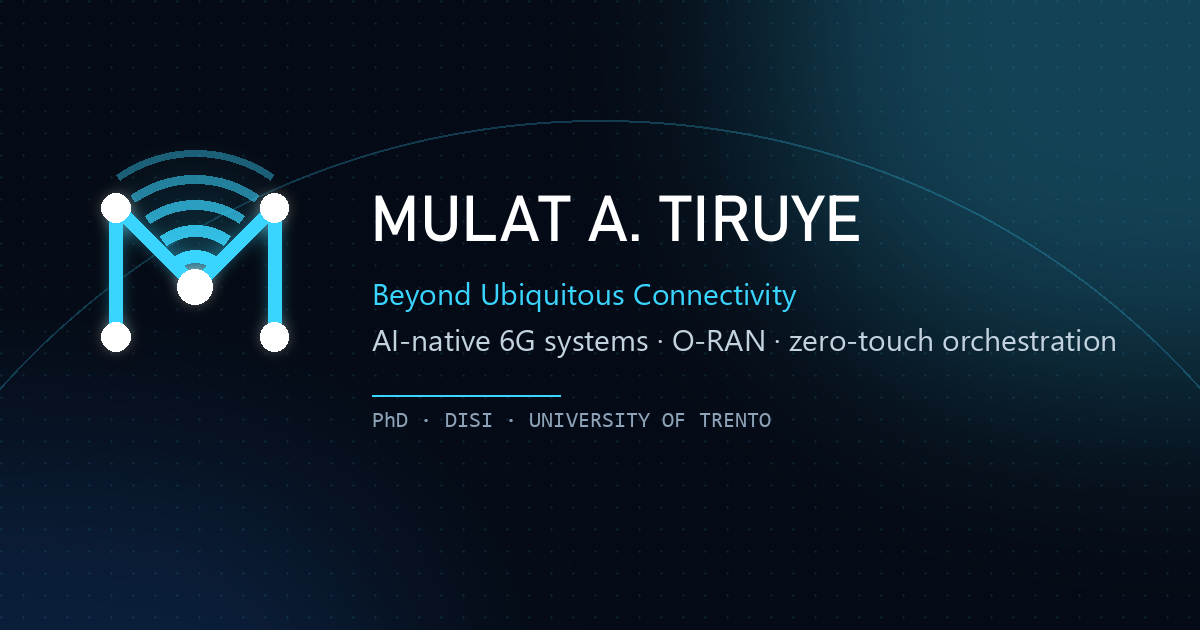
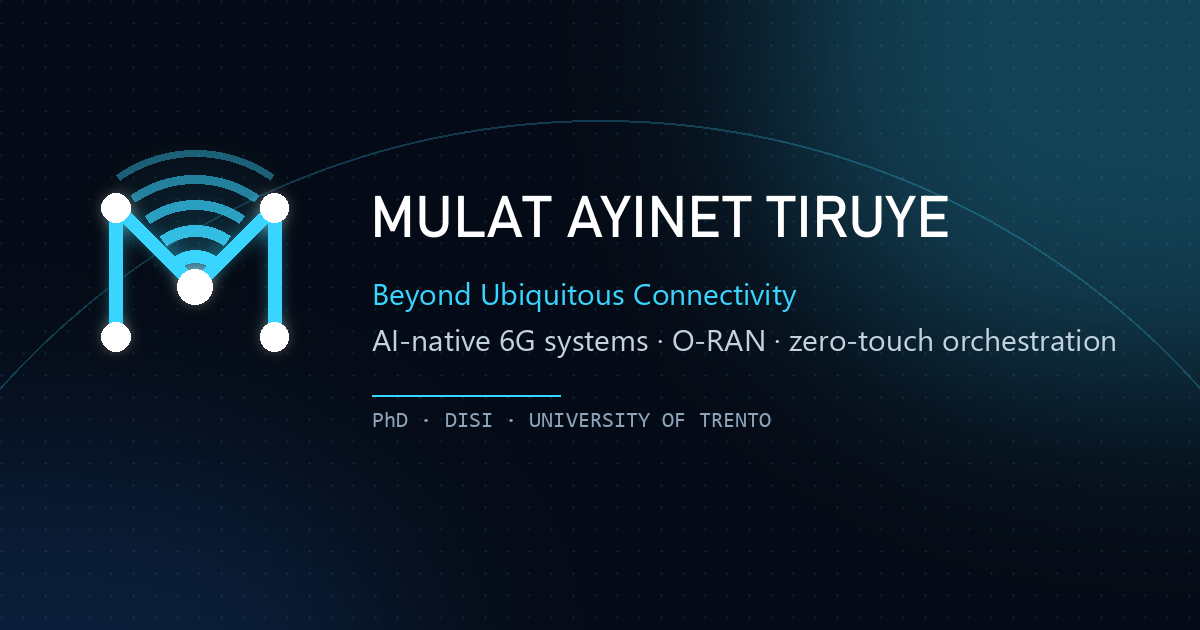
SEO: canonical/OG on new domain, full name "Mulat Ayinet Tiruye"
- canonical, og:url, og:image and JSON-LD now use www.mulattiruye.com
  (they still pointed to matcompute.vercel.app, so Google kept
  treating the old address as the official one)
- Full name in title, description, intro, footer, author tags;
  alternateName lists the short forms; add WebSite schema
- Blog pages get their own canonical / og:url / og:title
- Social preview image regenerated with the full name

Changed region(s): [[0.3083, 0.3016, 0.8017, 0.3921]]

diff --git a/index.html b/index.html
@@ -3,18 +3,20 @@
 <head>
   <meta charset="utf-8" />
   <meta name="viewport" content="width=device-width, initial-scale=1" />
-  <title>Mulat A. Tiruye · 6G Systems & Networks</title>
-  <meta name="description" content="Mulat A. Tiruye, PhD researcher at DISI, University of Trento. AI-native 6G, O-RAN, programmable networks, zero-touch orchestration." />
+  <title>Mulat Ayinet Tiruye · 6G Systems &amp; Networks | PhD, University of Trento</title>
+  <meta name="description" content="Mulat Ayinet Tiruye (Mulat A. Tiruye), PhD researcher at DISI, University of Trento. AI-native 6G, O-RAN, programmable networks, zero-touch orchestration." />
   <meta name="google-site-verification" content="GVMOQ6J701_khd-GMXSquylnEwowq-lfG_y2ReAdHNA" />
   <meta name="theme-color" content="#050b16" />
-  <meta property="og:title" content="Mulat A. Tiruye · Beyond Ubiquitous Connectivity" />
+  <meta property="og:title" content="Mulat Ayinet Tiruye · Beyond Ubiquitous Connectivity" />
+  <meta property="og:site_name" content="Mulat Ayinet Tiruye" />
+  <meta name="author" content="Mulat Ayinet Tiruye" />
   <meta property="og:description" content="PhD research on intelligent, AI-native 6G systems and networks." />
   <link rel="icon" type="image/svg+xml" href="assets/logo.svg" />
   <link rel="apple-touch-icon" href="assets/apple-touch-icon.png" />
-  <link rel="canonical" href="https://matcompute.vercel.app/" />
+  <link rel="canonical" href="https://www.mulattiruye.com/" />
   <meta property="og:type" content="website" />
-  <meta property="og:url" content="https://matcompute.vercel.app/" />
-  <meta property="og:image" content="https://matcompute.vercel.app/assets/og.png" />
+  <meta property="og:url" content="https://www.mulattiruye.com/" />
+  <meta property="og:image" content="https://www.mulattiruye.com/assets/og.png" />
   <meta name="twitter:card" content="summary_large_image" />
   <link rel="preconnect" href="https://fonts.googleapis.com" />
   <link rel="preconnect" href="https://fonts.gstatic.com" crossorigin />
@@ -34,9 +36,9 @@
   "@context": "https://schema.org",
   "@type": "Person",
   "name": "Mulat Ayinet Tiruye",
-  "alternateName": "Mulat A. Tiruye",
-  "url": "https://matcompute.vercel.app/",
-  "image": "https://matcompute.vercel.app/assets/og.png",
+  "alternateName": ["Mulat A. Tiruye", "Mulat Tiruye", "M. A. Tiruye"],
+  "url": "https://www.mulattiruye.com/",
+  "image": "https://www.mulattiruye.com/assets/og.png",
   "jobTitle": "PhD Researcher",
   "affiliation": {
     "@type": "CollegeOrUniversity",
@@ -69,6 +71,18 @@
   ]
 }
   </script>
+  <script type="application/ld+json">
+{
+  "@context": "https://schema.org",
+  "@type": "WebSite",
+  "name": "Mulat Ayinet Tiruye",
+  "alternateName": [
+    "Mulat A. Tiruye",
+    "Mulat Tiruye"
+  ],
+  "url": "https://www.mulattiruye.com/"
+}
+  </script>
 </head>
 <body>
   <svg width="0" height="0" style="position:absolute" aria-hidden="true">
@@ -79,7 +93,7 @@
     <symbol id="i-mail" viewBox="0 0 24 24"><rect x="3" y="5" width="18" height="14" rx="2.5"/><path d="m4 7 8 6 8-6"/></symbol>
   </svg>
   <header class="nav force-dark" id="nav">
-    <a class="brand" href="#top" aria-label="Mulat A. Tiruye, home">
+    <a class="brand" href="#top" aria-label="Mulat Ayinet Tiruye, home">
       <svg class="logo" viewBox="0 0 32 32" aria-hidden="true">
         <g fill="none" stroke="currentColor" stroke-linecap="round" stroke-linejoin="round">
           <path class="logo-m" stroke-width="2" d="M5 26V8l11 11L27 8v18"/>
@@ -248,7 +262,7 @@
         <span class="small">Beyond</span>
         Ubiquitous Connectivity
       </h1>
-      <p class="lede">I'm <b>Mulat A. Tiruye</b>, a PhD researcher at <a class="aff" href="https://webapps.unitn.it/du/it/Persona/PER0316885" target="_blank" rel="noopener">DISI, University of Trento</a>.
+      <p class="lede">I'm <b>Mulat Ayinet Tiruye</b>, a PhD researcher at <a class="aff" href="https://webapps.unitn.it/du/it/Persona/PER0316885" target="_blank" rel="noopener">DISI, University of Trento</a>.
         I work on intelligent, AI-native 6G systems: O-RAN control, programmable networks and zero-touch orchestration.</p>
       <div class="cta">
         <a class="btn primary" href="#focus">Current research</a>
@@ -454,7 +468,7 @@
   </section>
 
   <footer class="foot">
-    <span>© <span id="year"></span> Mulat A. Tiruye · DISI, University of Trento</span>
+    <span>© <span id="year"></span> Mulat Ayinet Tiruye · DISI, University of Trento</span>
     <span class="eco-badge">🌱 Eco mode: fewer pixels, less power</span>
     <ul class="social foot-social" aria-label="Profiles">
         <li><a href="https://scholar.google.com/citations?user=xhxqo1QAAAAJ&amp;hl=en" target="_blank" rel="noopener" aria-label="Google Scholar" data-tip="Google Scholar"><svg><use href="#i-scholar"/></svg></a></li>

diff --git a/blog/imt-2030.html b/blog/imt-2030.html
@@ -3,13 +3,17 @@
 <head>
   <meta charset="utf-8" />
   <meta name="viewport" content="width=device-width, initial-scale=1" />
-  <title>IMT-2030 in Plain Words · Mulat A. Tiruye</title>
+  <title>IMT-2030 in Plain Words · Mulat Ayinet Tiruye</title>
   <meta name="description" content="A tour of the six IMT-2030 (6G) usage scenarios from ITU-R M.2160: immersive XR and holograms, HRLLC, massive IoT, ubiquitous connectivity, AI and communication, and integrated sensing." />
-  <meta name="author" content="Mulat A. Tiruye" />
+  <meta name="author" content="Mulat Ayinet Tiruye" />
+  <link rel="canonical" href="https://www.mulattiruye.com/blog/imt-2030" />
+  <meta property="og:url" content="https://www.mulattiruye.com/blog/imt-2030" />
+  <meta property="og:title" content="IMT-2030 in Plain Words · Mulat Ayinet Tiruye" />
+  <meta property="og:site_name" content="Mulat Ayinet Tiruye" />
   <meta name="theme-color" content="#050b16" />
   <link rel="icon" type="image/svg+xml" href="/assets/logo.svg" />
   <link rel="apple-touch-icon" href="/assets/apple-touch-icon.png" />
-  <meta property="og:image" content="https://matcompute.vercel.app/assets/og.png" />
+  <meta property="og:image" content="https://www.mulattiruye.com/assets/og.png" />
   <meta name="twitter:card" content="summary_large_image" />
   <link rel="preconnect" href="https://fonts.googleapis.com" />
   <link rel="preconnect" href="https://fonts.gstatic.com" crossorigin />
@@ -34,7 +38,7 @@
     <symbol id="i-mail" viewBox="0 0 24 24"><rect x="3" y="5" width="18" height="14" rx="2.5"/><path d="m4 7 8 6 8-6"/></symbol>
   </svg>
   <header class="nav force-dark" id="nav">
-    <a class="brand" href="/" aria-label="Mulat A. Tiruye, home">
+    <a class="brand" href="/" aria-label="Mulat Ayinet Tiruye, home">
       <svg class="logo" viewBox="0 0 32 32" aria-hidden="true">
         <g fill="none" stroke="currentColor" stroke-linecap="round" stroke-linejoin="round">
           <path class="logo-m" stroke-width="2" d="M5 26V8l11 11L27 8v18"/>
@@ -173,7 +177,7 @@
   </main>
 
   <footer class="foot">
-    <span>© <span id="year"></span> Mulat A. Tiruye · DISI, University of Trento</span>
+    <span>© <span id="year"></span> Mulat Ayinet Tiruye · DISI, University of Trento</span>
     <span class="eco-badge">🌱 Eco mode: fewer pixels, less power</span>
     <ul class="social foot-social" aria-label="Profiles">
         <li><a href="https://scholar.google.com/citations?user=xhxqo1QAAAAJ&amp;hl=en" target="_blank" rel="noopener" aria-label="Google Scholar" data-tip="Google Scholar"><svg><use href="#i-scholar"/></svg></a></li>

diff --git a/blog/index.html b/blog/index.html
@@ -3,13 +3,17 @@
 <head>
   <meta charset="utf-8" />
   <meta name="viewport" content="width=device-width, initial-scale=1" />
-  <title>Blog · Mulat A. Tiruye</title>
-  <meta name="description" content="Notes on 6G, AI-native networks and zero-touch orchestration by Mulat A. Tiruye." />
-  <meta name="author" content="Mulat A. Tiruye" />
+  <title>Blog · Mulat Ayinet Tiruye</title>
+  <meta name="description" content="Notes on 6G, AI-native networks and zero-touch orchestration by Mulat Ayinet Tiruye." />
+  <meta name="author" content="Mulat Ayinet Tiruye" />
+  <link rel="canonical" href="https://www.mulattiruye.com/blog/" />
+  <meta property="og:url" content="https://www.mulattiruye.com/blog/" />
+  <meta property="og:title" content="Blog · Mulat Ayinet Tiruye" />
+  <meta property="og:site_name" content="Mulat Ayinet Tiruye" />
   <meta name="theme-color" content="#050b16" />
   <link rel="icon" type="image/svg+xml" href="/assets/logo.svg" />
   <link rel="apple-touch-icon" href="/assets/apple-touch-icon.png" />
-  <meta property="og:image" content="https://matcompute.vercel.app/assets/og.png" />
+  <meta property="og:image" content="https://www.mulattiruye.com/assets/og.png" />
   <meta name="twitter:card" content="summary_large_image" />
   <link rel="preconnect" href="https://fonts.googleapis.com" />
   <link rel="preconnect" href="https://fonts.gstatic.com" crossorigin />
@@ -34,7 +38,7 @@
     <symbol id="i-mail" viewBox="0 0 24 24"><rect x="3" y="5" width="18" height="14" rx="2.5"/><path d="m4 7 8 6 8-6"/></symbol>
   </svg>
   <header class="nav force-dark" id="nav">
-    <a class="brand" href="/" aria-label="Mulat A. Tiruye, home">
+    <a class="brand" href="/" aria-label="Mulat Ayinet Tiruye, home">
       <svg class="logo" viewBox="0 0 32 32" aria-hidden="true">
         <g fill="none" stroke="currentColor" stroke-linecap="round" stroke-linejoin="round">
           <path class="logo-m" stroke-width="2" d="M5 26V8l11 11L27 8v18"/>
@@ -92,7 +96,7 @@
   </main>
 
   <footer class="foot">
-    <span>© <span id="year"></span> Mulat A. Tiruye · DISI, University of Trento</span>
+    <span>© <span id="year"></span> Mulat Ayinet Tiruye · DISI, University of Trento</span>
     <span class="eco-badge">🌱 Eco mode: fewer pixels, less power</span>
     <ul class="social foot-social" aria-label="Profiles">
         <li><a href="https://scholar.google.com/citations?user=xhxqo1QAAAAJ&amp;hl=en" target="_blank" rel="noopener" aria-label="Google Scholar" data-tip="Google Scholar"><svg><use href="#i-scholar"/></svg></a></li>

diff --git a/404.html b/404.html
@@ -3,7 +3,7 @@
 <head>
   <meta charset="utf-8" />
   <meta name="viewport" content="width=device-width, initial-scale=1" />
-  <title>Packet lost · Mulat A. Tiruye</title>
+  <title>Packet lost · Mulat Ayinet Tiruye</title>
   <link rel="icon" type="image/svg+xml" href="/assets/logo.svg" />
   <link href="https://fonts.googleapis.com/css2?family=Michroma&family=Inter:wght@400;500&display=swap" rel="stylesheet" />
   <style>
